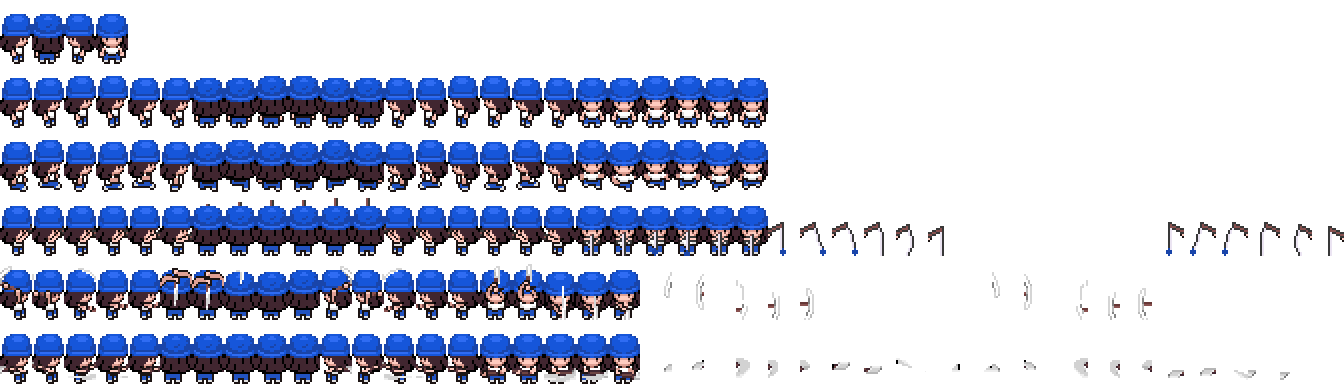
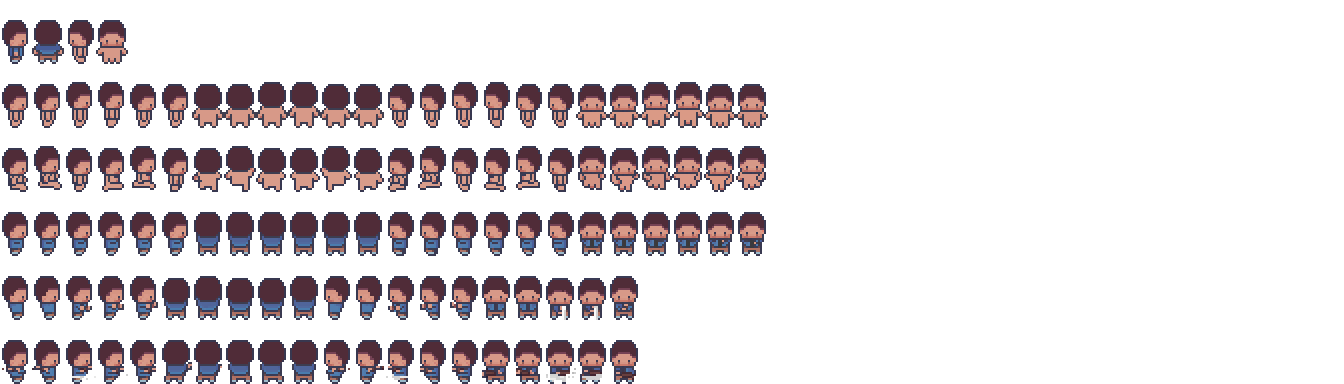
added all birthday items and breeds

diff --git a/src/communityTokens/index.ts b/src/communityTokens/index.ts
@@ -45,6 +45,8 @@ import {
   SUMMER_PROMPTS,
   HYDREX_PROMPTS,
   QUICKSWAP_PROMPTS,
+  BIRTHDAY_PROMPTS,
+  BDAYCAKE_PROMPTS,
 } from "../prompts";
 
 export const communityTokens: CommunityToken[] = [
@@ -119,6 +121,36 @@ export const communityTokens: CommunityToken[] = [
   },
 
   // Premium Hunter Tokens
+  {
+    communityId: "BDAYCAKE",
+    name: "Birthday Cake",
+    symbol: "BDAYCAKE",
+    logoURI:
+      "https://raw.githubusercontent.com/alma-labs/tokiemon-lists/main/assets/tokens/BDAYCAKE.png",
+    extraPaymentTokens: [],
+    tags: ["HUNTER"],
+    hunting: {
+      capture: true,
+      scene: "TOWN",
+      only: true,
+      premium: true,
+    },
+  },
+  {
+    communityId: "BIRTHDAY",
+    name: "Birthday",
+    symbol: "BIRTHDAY",
+    logoURI:
+      "https://raw.githubusercontent.com/alma-labs/tokiemon-lists/main/assets/tokens/BIRTHDAY.png",
+    extraPaymentTokens: [],
+    tags: ["HUNTER"],
+    hunting: {
+      capture: true,
+      scene: "TOWN",
+      only: true,
+      premium: true,
+    },
+  },
   {
     communityId: "GOOCH",
     name: "Gooch",

diff --git a/src/prompts/paintbrushes.ts b/src/prompts/paintbrushes.ts
@@ -163,4 +163,40 @@ export const paintbrushes: Paintbrush[] = [
     selectionType: "always",
     keywords: ["Plague Doctor Pokemon"],
   },
+  {
+    itemId: "982",
+    name: "Birthday",
+    selectionType: "always",
+    keywords: ["Pokemon wearing a party hat birthday themed"],
+  },
+  {
+    itemId: "989",
+    name: "Meemawpeepaw",
+    selectionType: "random",
+    keywords: ["Grandma Pokemon", "Grandpa Pokemon"],
+  },
+  {
+    itemId: "990",
+    name: "Rainbow",
+    selectionType: "always",
+    keywords: ["Shiny Rainbow color Pokemon"],
+  },
+  {
+    itemId: "991",
+    name: "Dino",
+    selectionType: "random",
+    keywords: ["Triceratops Pokemon", "Trex Pokemon"],
+  },
+  {
+    itemId: "992",
+    name: "Motorcycle",
+    selectionType: "always",
+    keywords: ["Pokemon riding motorcycle"],
+  },
+  {
+    itemId: "993",
+    name: "Final Form",
+    selectionType: "always",
+    keywords: ["Super Saiyan Pokemon"],
+  },
 ];

diff --git a/src/quests/quests.ts b/src/quests/quests.ts
@@ -4,7 +4,26 @@ const PLACEHOLDER_IMAGE =
   "https://raw.githubusercontent.com/alma-labs/tokiemon-lists/refs/heads/main/assets/quests/placeholder.png";
 
 export const quests: Quest[] = [
-  // CURRENT HIGHEST QUEST ID = 30
+  // CURRENT HIGHEST QUEST ID = 31
+  {
+    questId: 31,
+    id: "tokiemon-1st-birthday",
+    name: "Tokiemon 1st Birthday",
+    image:
+      "https://raw.githubusercontent.com/alma-labs/tokiemon-lists/refs/heads/main/assets/quests/tokiemon-1st-birthday.png",
+    type: "Story",
+    questPoints: 1,
+    description:
+      "Happy 1st Birthday to Tokiemon! Celebrate with a special birthday gift on us!",
+    requirements: ["Have a V Card."],
+    rewards: [
+      { itemId: "975", amount: 1 }, // 1 Birthday Present
+    ],
+    check: "Player has a V Card.",
+    verified: true,
+    isActive: true,
+    hint: "Get a V Card from the general store!",
+  },
   {
     questId: 30,
     id: "salt_life",

diff --git a/src/prompts/BIRTHDAY.ts b/src/prompts/BIRTHDAY.ts
@@ -1,0 +1,19 @@
+export const degen = [
+    "Random monster pokemon wearing a party hat birthday themed",
+    "Random vicious evolved monster pokemon wearing a party hat birthday themed",
+    "Random evolved pokemon wearing a party hat birthday themed",
+    "mewtwo wearing a party hat birthday themed",
+    "legendary evolved pokemon wearing a party hat birthday themed",
+    "Random color dragon humanoid wearing a party hat birthday themed",
+  ];
+  
+  export const dragon = [
+    "Dragon pokemon wearing a party hat birthday themed",
+    "Random color dragon wearing a party hat birthday themed",
+  ];
+  
+  export const kawaii = [
+    "Random animal pokemon wearing a party hat birthday themed",
+    "Random pokemon wearing a party hat birthday themed",
+    "Random fish wearing a party hat birthday themed",
+  ];

diff --git a/src/prompts/index.ts b/src/prompts/index.ts
@@ -199,6 +199,16 @@ import {
   dragon as dragonQuickswap,
   degen as degenQuickswap,
 } from "./QUICKSWAP";
+import {
+  kawaii as kawaiiBirthday,
+  dragon as dragonBirthday,
+  degen as degenBirthday,
+} from "./BIRTHDAY";
+import {
+  kawaii as kawaiiBdaycake,
+  dragon as dragonBdaycake,
+  degen as degenBdaycake,
+} from "./BDAYCAKE";
 
 export const TOKIEMON_PROMPTS = { kawaii, dragon, degen };
 export const HOLIDAY_PROMPTS = {
@@ -400,4 +410,14 @@ export const QUICKSWAP_PROMPTS = {
   kawaii: kawaiiQuickswap,
   dragon: dragonQuickswap,
   degen: degenQuickswap,
+};
+export const BIRTHDAY_PROMPTS = {
+  kawaii: kawaiiBirthday,
+  dragon: dragonBirthday,
+  degen: degenBirthday,
+};
+export const BDAYCAKE_PROMPTS = {
+  kawaii: kawaiiBdaycake,
+  dragon: dragonBdaycake,
+  degen: degenBdaycake,
 };

diff --git a/src/prompts/BDAYCAKE.ts b/src/prompts/BDAYCAKE.ts
@@ -1,0 +1,23 @@
+export const degen = [
+    "monster birthday cake pokemon",
+    "vicious monster birthday cake pokemon random colors",
+    "monster evolved pokemon holding piece of cake",
+    "random colored vicious angry monster like pokemon holding a piece of birthday cake",
+  ];
+  
+  export const dragon = [
+    "Dragon cake pokemon",
+    "birthday cake dragon pokemon",
+    "birthday cake pokemon with wings and fangs and claws",
+    "dragon birthday pokemon holding cake",
+  ];
+  
+  export const kawaii = [
+    "Birthday cake pokemon",
+    "Birthday cake animal pokemon",
+    "cake themed kawaii pokemon",
+    "Birthday cake themed kawaii pokemon",
+    "Kawaii pokemon holding cake",
+    "kawaii pokemon holding slice of cake",
+    "random colored mew holding a piece of cake",
+  ];

diff --git a/src/changelog/index.ts b/src/changelog/index.ts
@@ -1,6 +1,12 @@
 import { Changelog } from "../types";
 
 export const changelogs: Changelog[] = [
+  {
+    title: "Changelog Notes 9/30",
+    date: "September 30, 2025",
+    changes: ["Added all Birthday items to capture in Town area. Limited Birthday Breeds, skins, and paintbrushes added.",
+      ],
+  },
  {
     title: "Changelog Notes 9/2",
     date: "September 2, 2025",
